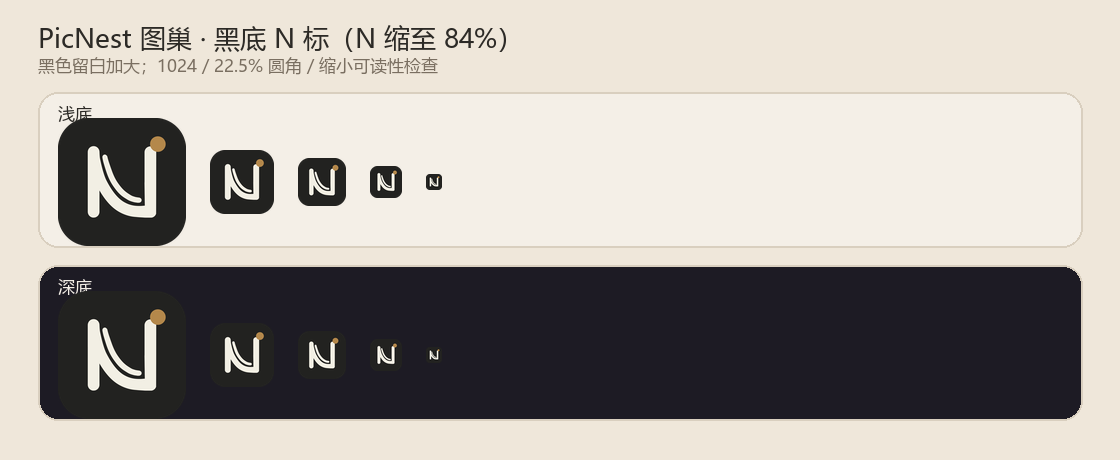
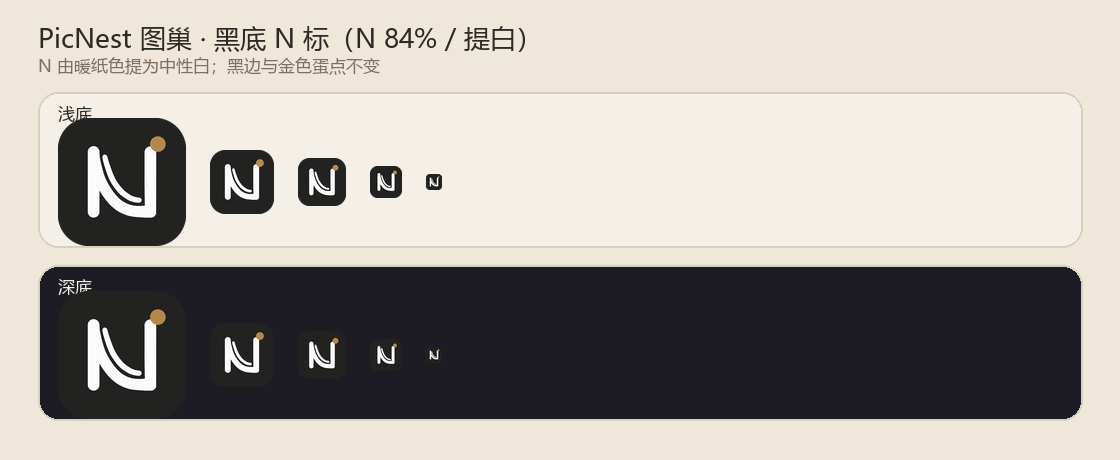
branding: N 提为中性白（84% 版本），更新窗口图标

Changed region(s): [[0.0312, 0.0609, 0.4688, 0.1826]]

diff --git a/docs/PLAN.md b/docs/PLAN.md
@@ -419,4 +419,4 @@ PicNest/
 
 68. **Logo 概念与 PSD 底稿（2026-11-09，Feb 问设计想法）**：`branding/` 下三版矢量概念——A 巢·照片卡（照片卡+U 形巢弧+金蛋，推荐主图标）、B 巢鸮（猫头鹰耳朵/双眼/喙+巢弧，吉祥物方向）、C N 字母标（圆角画框+N+金点，16px 最稳）；每版有浅底/深底 SVG（深底墨线换纸白）与 1024/512 PNG。`PicNest-logo-template.psd` 2048×2048，图层含暖纸背景、80% 安全区、22.5% 圆角、64 网格、中心十字、A/B/C 底稿（B/C 默认隐藏）；`preview-concepts.png`/`preview-sizes.png` 为对照图，README 写设计约束/导出规格/检查清单。**尚未接入 app/icon.png 与 .ico**，等 Feb 选定/改稿后再导出多尺寸。
 
-69. **黑底 N 标终稿 + 软件图标接入（2026-11-09，Feb 给 PSD）**：Feb 在 `PicNest-logo-template.psd` 保留 C 层（黑底 N + 金点）后，仓库保存母版 `branding/final/PicNest-logo.psd`；用 ag-psd + canvas 读出可见层 canvas（1212×1212，透明外角），PIL LANCZOS 导出 2048/1024/512/256/128/64/48/32/16 PNG、多尺寸 ICO、浅/深底预览。已替换 `app/_internal_data/icon.png`（1024）与 `icon.ico`（旧件备份 `icon-old.*`），重启后通过 WM_GETICON 提取窗口图标验证为新 N 标。**exe 文件内嵌图标仍是旧图**，需 rcedit/Resource Hacker 改 PE 资源；窗口/任务栏已生效。Feb 追加「N 缩小 / 黑色面积加大」：从最终 2048 PNG 分解黑底 tile 与前景（纸白 N + 金点），前景等比缩至 **84%** 居中叠回，重导出 2048…16 PNG、ICO、预览并再次替换 `app/_internal_data/icon.*` + 重启；PSD 母版保持 100% 原始。几何版 SVG 改名 `concepts/monogram-geometric-draft.svg` 仅作矢量化参考。
+69. **黑底 N 标终稿 + 软件图标接入（2026-11-09，Feb 给 PSD）**：Feb 在 `PicNest-logo-template.psd` 保留 C 层（黑底 N + 金点）后，仓库保存母版 `branding/final/PicNest-logo.psd`；用 ag-psd + canvas 读出可见层 canvas（1212×1212，透明外角），PIL LANCZOS 导出 2048/1024/512/256/128/64/48/32/16 PNG、多尺寸 ICO、浅/深底预览。已替换 `app/_internal_data/icon.png`（1024）与 `icon.ico`（旧件备份 `icon-old.*`），重启后通过 WM_GETICON 提取窗口图标验证为新 N 标。**exe 文件内嵌图标仍是旧图**，需 rcedit/Resource Hacker 改 PE 资源；窗口/任务栏已生效。Feb 追加「N 缩小 / 黑色面积加大」：从最终 2048 PNG 分解黑底 tile 与前景（纸白 N + 金点），前景等比缩至 **84%** 居中叠回，重导出 2048…16 PNG、ICO、预览并再次替换 `app/_internal_data/icon.*` + 重启；PSD 母版保持 100% 原始。再追加「N 更白」：按亮度/饱和度分离前景，非金色（N）像素做中性白重映射（34→34、245→255，保留黑边抗锯齿），金色与黑底不动；重导出并更新窗口图标。几何版 SVG 改名 `concepts/monogram-geometric-draft.svg` 仅作矢量化参考。

diff --git a/branding/README.md b/branding/README.md
@@ -55,7 +55,7 @@
 
 ## 终稿方向：黑底 N 标（`final/`）
 
-最终采用你在 `PicNest-logo-template.psd` 里保留的 C 层（黑底 N + 金点）。仓库里保存了这份 PSD 原件；按你后来的要求，最终 PNG/ICO 里把 N 组等比缩到 **84%**（四周黑边加大），PSD 仍是 100% 原始母版：
+最终采用你在 `PicNest-logo-template.psd` 里保留的 C 层（黑底 N + 金点）。仓库里保存了这份 PSD 原件；按你后来的要求，最终 PNG/ICO 里把 N 组等比缩到 **84%**（四周黑边加大），并把 N 从暖纸色提为**中性白**（金色蛋点保留原色），PSD 仍是 100% 原始母版：
 
 - `final/PicNest-logo.psd`（最终母版，2048 × 2048，参考层均已隐藏）
 - `final/picnest-icon-2048.png` / 1024 / 512 / 256 / 128 / 64 / 48 / 32 / 16
